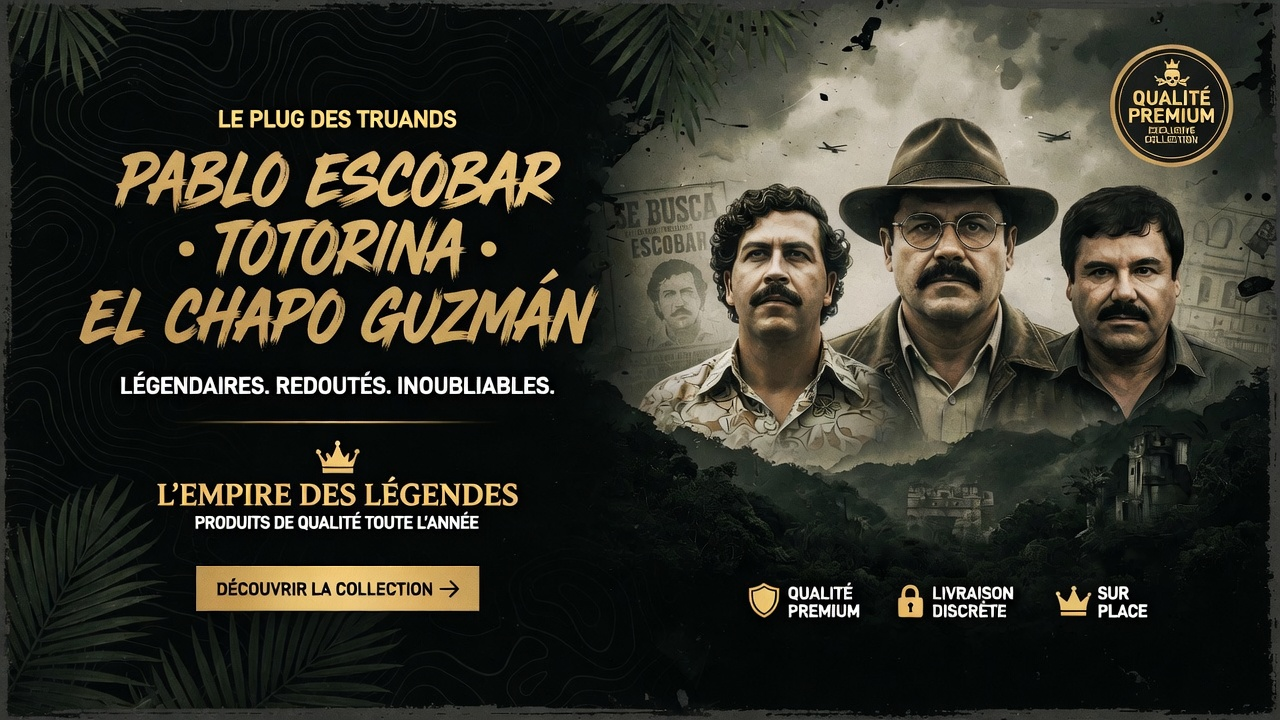
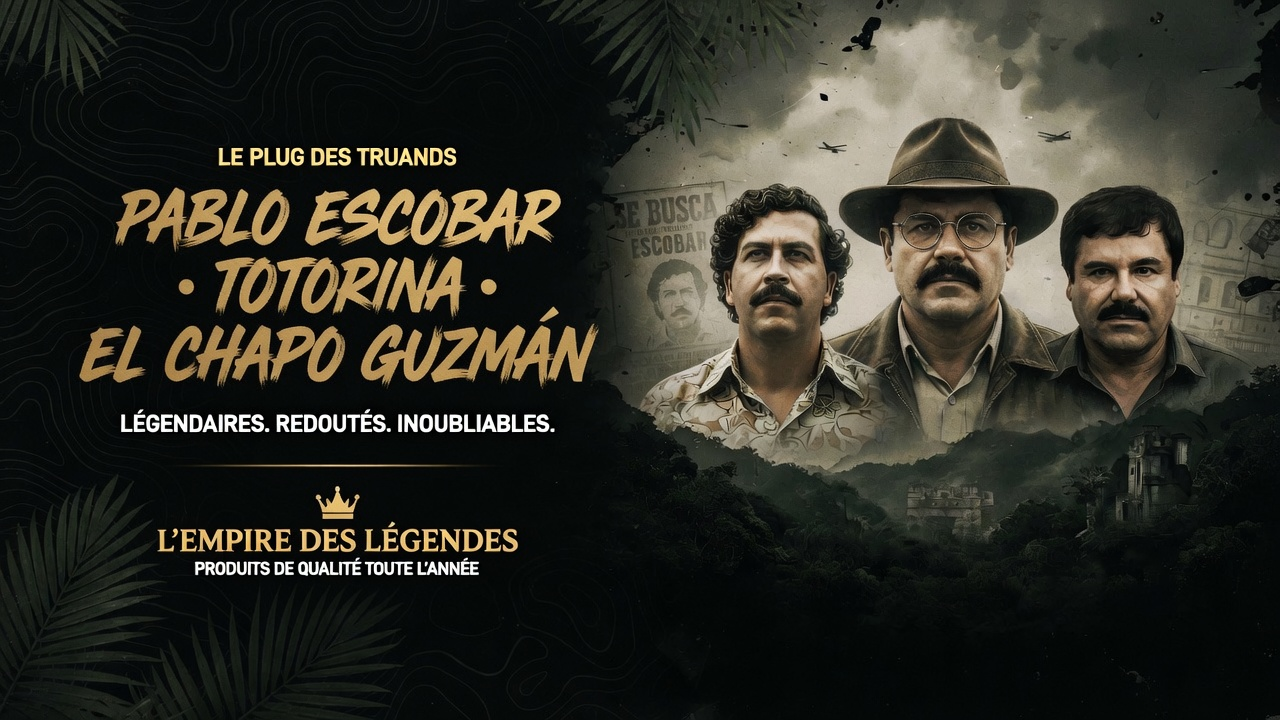
feat: hero-empire as ambient background — products first

diff --git a/components/hero.tsx b/components/hero.tsx
@@ -3,41 +3,59 @@
 import Image from "next/image"
 
 /**
- * Hero = bannière image complète (textes graphiques déjà dans hero-empire.jpg).
- * On n'empile plus de titres HTML par-dessus pour éviter le doublon.
- * Seule la zone CTA reste cliquable (scroll boutique).
+ * Atmosphère boutique : hero-empire en fond (fixé), semi-transparent,
+ * pour ne plus bloquer la vue sur les produits.
+ * Les produits restent au premier plan avec un voile sombre lisible.
  */
 export function Hero() {
+  return (
+    <div
+      className="pointer-events-none fixed inset-0 z-0 overflow-hidden"
+      aria-hidden="true"
+    >
+      {/* Image de marque en fond — faible opacité */}
+      <Image
+        src="/hero-empire.jpg"
+        alt=""
+        fill
+        className="object-cover object-center opacity-[0.22] saturate-[0.85]"
+        priority
+        sizes="100vw"
+      />
+      {/* Voile pour lisibilité des produits (catalogue au-dessus) */}
+      <div className="absolute inset-0 bg-gradient-to-b from-black/75 via-[#050505]/88 to-[#050505]/95" />
+      {/* Halo or très léger en haut */}
+      <div className="absolute inset-x-0 top-0 h-[40vh] bg-[radial-gradient(ellipse_at_top,rgba(201,162,39,0.08),transparent_65%)]" />
+    </div>
+  )
+}
+
+/**
+ * Bandeau d’intro compact (optionnel) — ne prend presque pas de place.
+ * Scroll immédiat vers le catalogue.
+ */
+export function ShopIntroStrip() {
   const scrollToShop = () => {
     document.getElementById("featured")?.scrollIntoView({ behavior: "smooth" })
   }
 
   return (
-    <section className="relative w-full overflow-hidden border-b border-primary/20">
-      {/* Ratio large type bannière (approx 16:9 / maquette) */}
-      <div className="relative mx-auto w-full max-w-[1600px]">
-        <div className="relative aspect-[16/9] w-full min-h-[280px] sm:min-h-[360px] md:min-h-[420px] lg:min-h-[520px]">
-          <Image
-            src="/hero-empire.jpg"
-            alt="L'Empire des Légendes — Le Plug des Truands"
-            fill
-            className="object-cover object-center"
-            priority
-            sizes="100vw"
-          />
-
-          {/* Zone cliquable discrète sur le bouton "Découvrir" de l'image (bas-gauche) */}
-          <button
-            type="button"
-            onClick={scrollToShop}
-            className="absolute bottom-[10%] left-[4%] z-10 h-[12%] w-[28%] max-w-[280px] min-h-[44px] cursor-pointer rounded-sm bg-transparent"
-            aria-label="Découvrir la collection"
-          />
-        </div>
+    <section className="relative z-10 border-b border-primary/15 pt-20 pb-6 sm:pt-22 sm:pb-8">
+      <div className="mx-auto flex max-w-[960px] flex-col items-center gap-3 px-5 text-center sm:px-8">
+        <p className="text-[10px] font-medium uppercase tracking-[0.4em] text-primary/80">
+          Le Plug des Truands
+        </p>
+        <h1 className="font-display text-lg font-medium uppercase tracking-[0.22em] text-[#f5f0e6] sm:text-xl">
+          L&apos;Empire des Légendes
+        </h1>
+        <button
+          type="button"
+          onClick={scrollToShop}
+          className="mt-1 text-[10px] font-medium uppercase tracking-[0.3em] text-zinc-500 underline-offset-4 transition-colors hover:text-primary hover:underline"
+        >
+          Voir la collection
+        </button>
       </div>
-
-      {/* Dégradé bas pour coller au fond boutique */}
-      <div className="pointer-events-none absolute inset-x-0 bottom-0 h-16 bg-gradient-to-t from-[#050505] to-transparent" />
     </section>
   )
 }

diff --git a/app/page.tsx b/app/page.tsx
@@ -16,7 +16,7 @@ import { NewsPopup } from "@/components/news-popup"
 import { DeliveryInfoModal } from "@/components/delivery-info-modal"
 import { HowItWorksModal } from "@/components/how-it-works-modal"
 import { CheckoutCart } from "@/components/checkout-cart"
-import { Hero } from "@/components/hero"
+import { Hero, ShopIntroStrip } from "@/components/hero"
 import { ShopSections } from "@/components/shop-sections"
 
 export default function Home() {
@@ -167,9 +167,13 @@ export default function Home() {
         {!isAuthenticated ? (
           <LoginPage onSuccess={handleLoginSuccess} />
         ) : (
-          <div className="bg-background text-foreground">
+          <div className="relative min-h-screen bg-background text-foreground">
+            {/* Fond ambiance (hero-empire) — ne masque plus le catalogue */}
             <Hero />
-            <ShopSections />
+            <div className="relative z-10">
+              <ShopIntroStrip />
+              <ShopSections />
+            </div>
           </div>
         )}
       </main>
